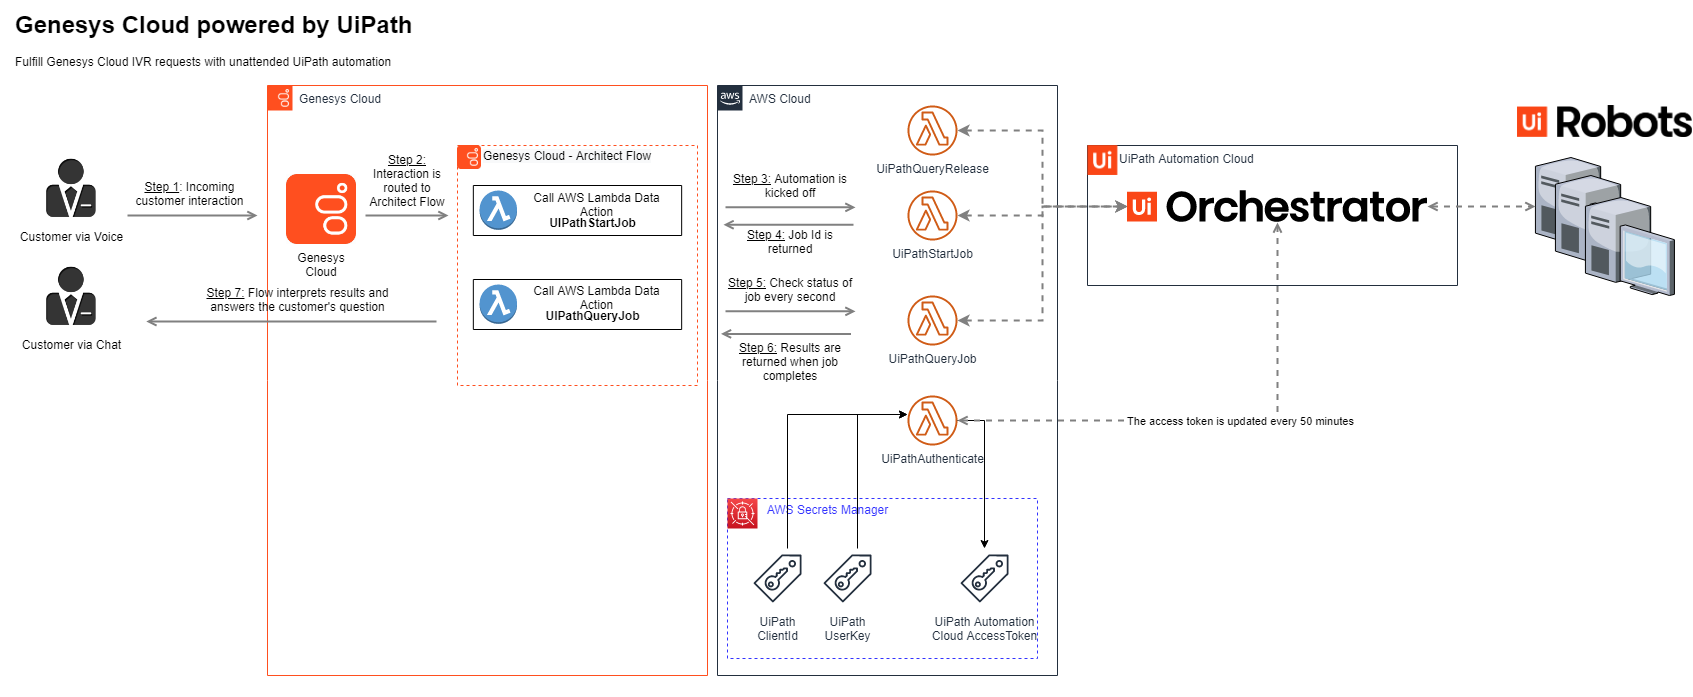
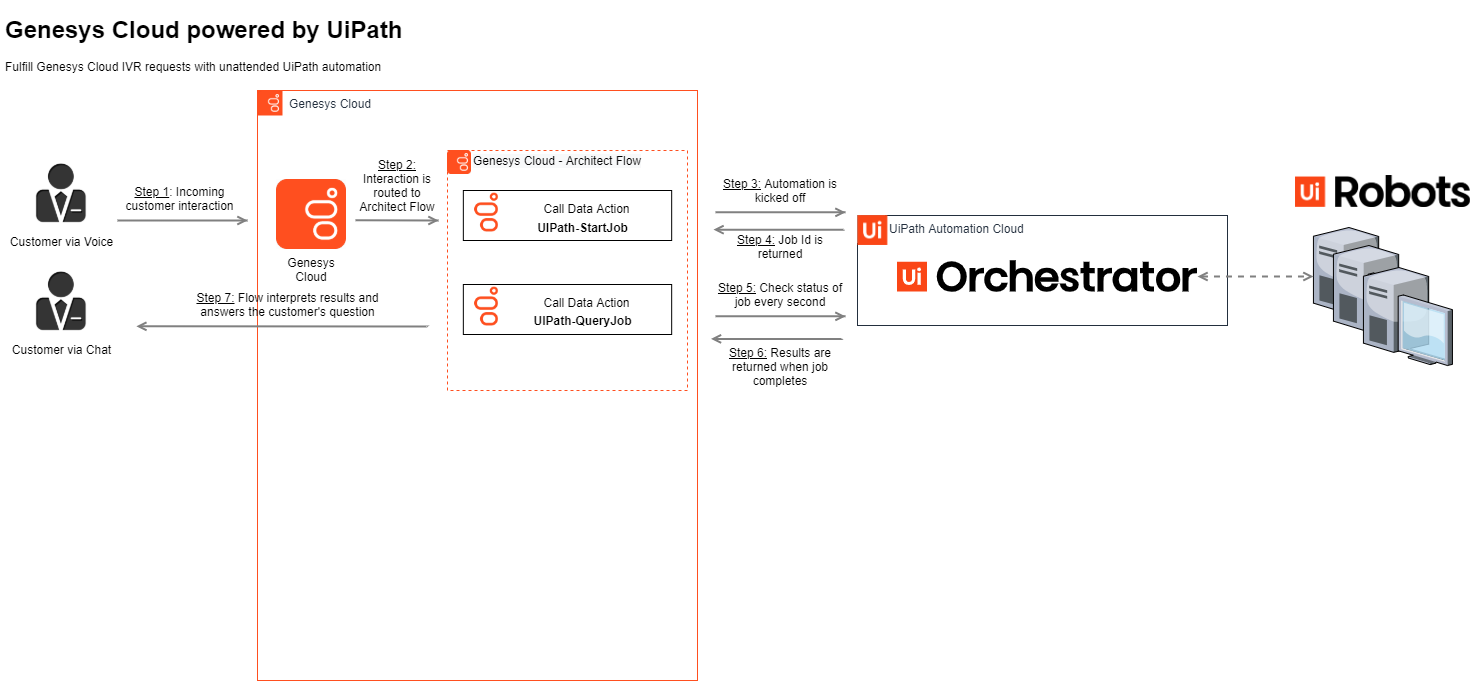
Updating documentation for Web Service Data Action

diff --git a/README.md b/README.md
@@ -18,13 +18,133 @@ The UiPath Enterprise Platform connects Genesys Cloud to any system, including t
 - **Realize rapid ROI** : Streamlined integration capabilities, easy-to-use customizable automation templates and an intuitive UI in UiPath Studio ensure fast deployment and a quick return on investment (ROI) alongside your Genesys Cloud instance.
 - **Improve customer &amp; employee satisfaction** : With UiPath and Genesys Cloud, customers and employee requests are resolved quickly, thereby boosting CSAT and NPS.
 
-![](.github/Architecture.png)
-
 ## Demo: Fulfilling IVR requests with UiPath automation
 
 Aileen is a customer of Meeple Telco and wants to know the current balance for her mobile phone bill. She makes a voice call to her Meeple Telco customer service number and the IVR flow queries the back-end for her last bill date and total. Aileen is thrilled that she was able to answer her question in under 30 seconds and without having to talk to anyone!
 
-## Deployment Steps
+# Deployment Steps
+
+UiPath has provided two different flavors of this integration:
+
+- Calling UiPath directly via Genesys Cloud Data Actions
+- Calling UiPath via AWS Lambda
+
+Directions for setting up both integrations are below.
+
+## Calling UiPath directly
+
+![](.github/Architecture.png)
+
+### Step 1. Create &amp; configure your UiPath Cloud instance
+
+1. Create a [new UiPath cloud instance](https://platform.uipath.com/portal_/register), or [use an existing instace](https://cloud.uipath.com/)
+2. Download the sample processes [in this repo](https://github.com/UiPath/AmazonConnect/tree/master/processes), or use your own processes
+
+- BillLookup - an unattended automation that takes a phone number as input and returns the last monthly bill details
+
+1. Publish the processes from Studio to Orchestrator - [HowTo](https://docs.uipath.com/orchestrator/docs/publishing-a-project-from-studio-to-orchestrator)
+2. Deploy the processes - [HowTo](https://docs.uipath.com/orchestrator/docs/managing-processes)
+3. Generate a user key and client ID for your cloud instance - [HowTo](https://docs.uipath.com/cloudplatform/docs/about-api-access)
+4. Note down the following information as it will be needed in later steps:
+   - User Key
+   - Client Id
+   - Account logical name
+   - Tenant logical name
+
+### Step 2. Setup the Genesys Cloud Web Services Data Action integration
+
+1. Navigate to the Interactions/Integrations page, i.e. [https://apps.mypurecloud.com/admin/#/integrations/apps](https://apps.mypurecloud.com/admin/#/integrations/apps)
+1. Add a **Web Services Data Action** integration to your instance per the [Genesys Cloud documentation](https://help.mypurecloud.com/articles/add-a-data-actions-integration/).
+1. Name the integration, i.e. UiPath Web Services Data Actions
+1. Switch to the Configuration tab, then the Credentials tab, and then click the Configure button.
+1. Choose **User Defined (OAuth)** and add 3 credential fields:
+
+| **Field Name** | **Value** |
+| --- | --- |
+| **authUrl** | https://account.uipath.com/oauth/token |
+| **clientId** | The Client Id value from step 1.6 |
+| **userKey** | The UserKey value from step 1.6 |
+
+![](.github/Credentials.png)
+
+6. Click the OK button on the Configure Credentials dialog
+1. Click the Save button on the Configuration page
+1. Mark the Integration as active
+
+### Step 3. Configure the UiPath Web Services Data Actions (Auth) action
+
+1. Navigate to the Integrations/Actions page, i.e. [https://apps.mypurecloud.com/admin/#/integrations/actions](https://apps.mypurecloud.com/admin/#/integrations/actions)
+2. Find the &quot;Custom Auth&quot; action starting with the name you gave the integration in step 2.3, i.e. UiPath Web Services Data Actions (Auth)
+3. Click the ellipsis for the action and choose Edit Action
+4. Switch to the Setup tab, then the Configuration tab.
+5. Click the Viewing toggle control at the bottom of the screen to change it to Draft mode.
+6. Change the Request URL template to **${credentials.authUrl}**
+7. Remove the Authorization header
+8. Change the Content-Type header to **application/json**
+9. Change the Request Body Template to the following JSON blob
+
+```
+{
+  "grant_type": "refresh_token",
+  "client_id": "${credentials.clientId}",
+  "refresh_token": "${credentials.userKey}",
+}
+```
+
+![](.github/Auth.png)
+
+10. Click the Save Draft button
+1. Switch to the Test tab and click the Run Action button. This should return &quot;Action successfully run&quot;. If it returns an error, please double check you followed the above steps correctly.
+1. Click the Save &amp; Publish button and confirm the publish on the resulting dialog
+
+### Step 4. Import and configure the UiPath StartJob Data Action
+
+1. Navigate to the Integrations/Actions page, i.e. [https://apps.mypurecloud.com/admin/#/integrations/actions](https://apps.mypurecloud.com/admin/#/integrations/actions)
+1. Import the action, CustomActions\UiPath-StartJob.custom, located in the downloaded ZIP from this Connect Marketplace listing.
+1. Click on the integration you created in step 2.3 and click the Import Action button
+1. Click the Save &amp; Publish button and confirm the publish on the resulting dialog
+
+### Step 5. Import and configure the UiPath QueryJob Data Action
+
+1. Navigate to the Integrations/Actions page, i.e. [https://apps.mypurecloud.com/admin/#/integrations/actions](https://apps.mypurecloud.com/admin/#/integrations/actions)
+1. Import the action, CustomActions\UiPath-QueryJob.custom, located in the downloaded ZIP from this Connect Marketplace listing.
+1. Click on the integration you created in step 2.3 and click the Import Action button
+1. Click on the Setup tab
+1. Change the QueryJob data action to match the output of the job you intend to call.
+  1. Update the Output Contract on the Contracts Tab to include named properties for each output argument of the UiPath process
+  2. Update the Response on the Configuration Tab to map the outputs to these properties.
+6. Click the Save &amp; Publish button and confirm the publish on the resulting dialog
+
+### Step 6. Create the Architect flows in Genesys Cloud
+
+1. Open the Genesys Cloud Architect page at [https://apps.myCloud.com/architect/#/inboundcall/flows](https://apps.mypurecloud.com/architect/#/inboundcall/flows)
+2. Import the sample flow file, **Sample Flow calling UiPath via Data Action.i3InboundFlow** , located in the downloaded ZIP from this Connect Marketplace listing, as a new Flow in Architect per the [Genesys Cloud documentation](https://help.mypurecloud.com/articles/import-export-call-flow).
+3. Navigate to the Get Bill action.
+4. Update the flow to point to the newly created data actions
+   1. Change the category to the integration you created in Step 2.3
+   1. Change the data action to the Start Job data action you created in Step 4.2. _NOTE: If it does not appear in the list, make sure you published it in Step 5.2.4._
+   1. Provide the inputs to start the job (Task #15)
+      - releaseKey - provide the GUID for the process to run, [see below](#obtaining-a-release-key)
+      - accountLogicalName –you retrieved this value in step 1.6
+      - tenantLogicalName –you retrieved this value in step 1.6
+      - folderId - provide the ID for the Orchestrator folder, [see below](#obtaining-the-folder-id)
+      - [Optional] inputArguments – provide the inputs to the UiPath process as a JSON string. For example, &#39;{&quot;arg1&quot;: &quot;value1&quot;, &quot;arg2&quot;:0}&#39;
+   1. Store the success output, job key as a variable, i.e. Task.jobKey (Task #15)
+   1. Provide the inputs to query the job (Task #23)
+      - jobKey – this should be the variable output from Task #15 (Task.jobKey)
+      - accountLogicalName –you retrieved this value in step 1.6
+      - tenantLogicalName –you retrieved this value in step 1.6
+      - folderId - provide the ID for the Orchestrator folder, [see below](#obtaining-the-folder-id)
+   1. [Optional] Store the success outputs as variables to be used elsewhere in the flow.
+1. Publish the completed flow per the [Genesys Cloud documentation](https://help.mypurecloud.com/articles/publish-call-flow/).
+
+### Step 7. Configure &amp; test your flows
+
+1. To Test the flow, open up the phone dialer and call the flow directly. The format to dial is Name@localhost where Name is the name of the flow with spaces replaced by &quot;%20&quot;. For example, I&#39;ve called my flow &quot;UiPath Demo&quot; so I would call &quot;UiPath%20Demo@localhost&quot; to test the flow.
+
+## Calling UiPath via AWS Lambda
+
+![](.github/ArchitectureAWS.png)
 
 ### Step 1. Create &amp; configure your UiPath Cloud instance
 
